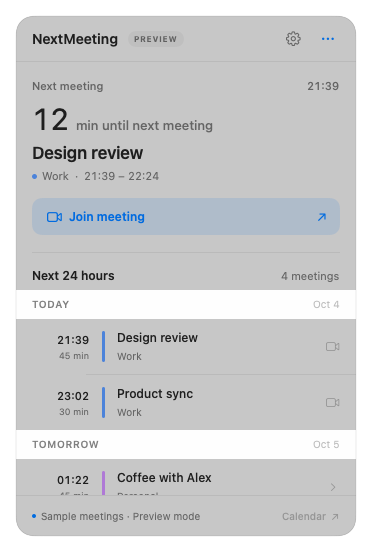
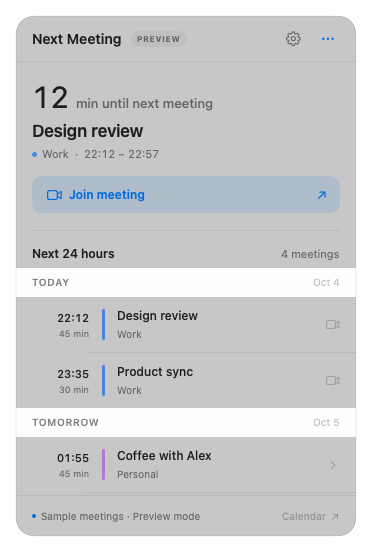
Rename app to Next Meeting and simplify agenda header

diff --git a/Sources/NextMeeting/MeetingPanel.swift b/Sources/NextMeeting/MeetingPanel.swift
@@ -69,7 +69,7 @@ struct MeetingPanel: View {
                     .buttonStyle(IconButtonStyle()).help("Back to meetings")
                     .accessibilityLabel("Back to meetings")
             }
-            Text(showingSettings ? "Settings" : selectedMeeting != nil ? "Meeting" : "NextMeeting")
+            Text(showingSettings ? "Settings" : selectedMeeting != nil ? "Meeting" : "Next Meeting")
                 .font(.system(size: 14, weight: .semibold))
             if store.isDemo {
                 Text("PREVIEW").font(.system(size: 8, weight: .bold)).tracking(0.7)
@@ -87,7 +87,7 @@ struct MeetingPanel: View {
                     .keyboardShortcut("r")
                 Button("Open Calendar", systemImage: "calendar") { openCalendarSelection() }
                 Divider()
-                Button("Quit NextMeeting") { NSApplication.shared.terminate(nil) }.keyboardShortcut("q")
+                Button("Quit Next Meeting") { NSApplication.shared.terminate(nil) }.keyboardShortcut("q")
             } label: { Image(systemName: "ellipsis").font(.system(size: 15, weight: .semibold)) }
                 .menuStyle(.borderlessButton).menuIndicator(.hidden).fixedSize()
                 .frame(width: 24, height: 26).help("More options").accessibilityLabel("More options")
@@ -164,20 +164,12 @@ struct MeetingPanel: View {
 
     private func featuredMeeting(_ meeting: Meeting, now: Date) -> some View {
         VStack(alignment: .leading, spacing: 0) {
-            HStack {
-                Text(meeting.startDate <= now ? "In progress" : "Next meeting")
-                    .font(.system(size: 11, weight: .medium))
-                Spacer()
-                Text(meeting.startDate.formatted(date: .omitted, time: .shortened))
-                    .font(.system(size: 11, weight: .medium)).monospacedDigit()
-            }.foregroundStyle(.secondary)
-
             HStack(alignment: .firstTextBaseline, spacing: 6) {
                 Text(countdownNumber(meeting, now: now))
                     .font(.system(size: 30, weight: .regular)).monospacedDigit()
                 Text(countdownUnit(meeting, now: now))
                     .font(.system(size: 13, weight: .medium)).foregroundStyle(.secondary)
-            }.padding(.top, 8).padding(.bottom, 7)
+            }.padding(.bottom, 7)
 
             Button { selectedMeeting = meeting } label: {
                 Text(meeting.title).font(.system(size: 17, weight: .semibold))
@@ -237,7 +229,7 @@ struct MeetingPanel: View {
                 .font(.system(size: 27, weight: .medium)).lineSpacing(2).padding(.bottom, 12)
             Text(store.access == .notDetermined
                  ? "See what’s next and the meetings ahead, right from your menu bar."
-                 : "NextMeeting needs permission to show events from your calendars.")
+                 : "Next Meeting needs permission to show events from your calendars.")
                 .font(.system(size: 13)).foregroundStyle(.secondary).lineSpacing(4)
             VStack(alignment: .leading, spacing: 12) {
                 Label("Uses the accounts in Apple Calendar", systemImage: "calendar")
@@ -260,7 +252,7 @@ struct MeetingPanel: View {
                 Text("macOS will ask for calendar access.")
                     .font(.system(size: 10)).foregroundStyle(.tertiary).padding(.top, 10)
             } else {
-                Text("Privacy & Security → Calendars → NextMeeting")
+                Text("Privacy & Security → Calendars → Next Meeting")
                     .font(.system(size: 10)).foregroundStyle(.secondary).padding(.top, 10)
             }
             if let error = store.errorMessage {
@@ -275,7 +267,7 @@ struct MeetingPanel: View {
             VStack(alignment: .leading, spacing: 22) {
                 VStack(alignment: .leading, spacing: 8) {
                     Text("Calendars").font(.system(size: 17, weight: .semibold))
-                    Text("Choose which calendars appear in NextMeeting.")
+                    Text("Choose which calendars appear in Next Meeting.")
                         .font(.system(size: 12)).foregroundStyle(.secondary).lineSpacing(3)
                 }
                 if store.access != .granted {
@@ -332,7 +324,7 @@ struct MeetingPanel: View {
                 }
                 VStack(alignment: .leading, spacing: 8) {
                     Label("Private by default", systemImage: "lock").font(.system(size: 11, weight: .medium))
-                    Text("NextMeeting reads your calendars on this Mac. It never changes events or sends them to a server.")
+                    Text("Next Meeting reads your calendars on this Mac. It never changes events or sends them to a server.")
                         .font(.system(size: 11)).foregroundStyle(.secondary).lineSpacing(3)
                     Text("All-day events and declined invitations are hidden.")
                         .font(.system(size: 11)).foregroundStyle(.secondary).lineSpacing(3)

diff --git a/Sources/NextMeeting/NextMeetingApp.swift b/Sources/NextMeeting/NextMeetingApp.swift
@@ -24,7 +24,7 @@ enum NextMeetingApp {
     private static func verifyCalendars() {
         guard var report = UserDefaults.standard.dictionary(forKey: "NextMeeting.connectionSummary"),
               let verifiedAt = report["verifiedAt"] as? TimeInterval else {
-            print("{\"status\":\"not_verified\",\"message\":\"Open NextMeeting from its app bundle first.\"}")
+            print("{\"status\":\"not_verified\",\"message\":\"Open Next Meeting from its app bundle first.\"}")
             exit(1)
         }
         let fresh = Date().timeIntervalSince1970 - verifiedAt < 180
@@ -69,7 +69,7 @@ final class AppDelegate: NSObject, NSApplicationDelegate, NSPopoverDelegate {
 
         statusItem = NSStatusBar.system.statusItem(withLength: NSStatusItem.variableLength)
         if let button = statusItem.button {
-            button.image = NSImage(systemSymbolName: "calendar.badge.clock", accessibilityDescription: "NextMeeting")
+            button.image = NSImage(systemSymbolName: "calendar.badge.clock", accessibilityDescription: "Next Meeting")
             button.image?.size = NSSize(width: 18, height: 18)
             button.image?.isTemplate = true
             button.imagePosition = .imageLeading
@@ -96,7 +96,7 @@ final class AppDelegate: NSObject, NSApplicationDelegate, NSPopoverDelegate {
                                                       height: isPopoverPreview ? 120 : 520),
                                   styleMask: isPopoverPreview ? [.titled, .closable] : [.titled, .closable, .fullSizeContentView],
                                   backing: .buffered, defer: false)
-            window.title = isPreview ? "NextMeeting Preview" : "NextMeeting"
+            window.title = isPreview ? "Next Meeting Preview" : "Next Meeting"
             if isPopoverPreview {
                 let label = NSTextField(labelWithString: "Sample meetings · Native popover")
                 let button = NSButton(title: "Open sample popover", target: self, action: #selector(showPreviewPopover))
@@ -146,10 +146,10 @@ final class AppDelegate: NSObject, NSApplicationDelegate, NSPopoverDelegate {
     @objc private func togglePopover(_ sender: NSStatusBarButton) {
         if NSApp.currentEvent?.type == .rightMouseUp {
             let menu = NSMenu()
-            menu.addItem(withTitle: "Open NextMeeting", action: #selector(openPanel), keyEquivalent: "")
+            menu.addItem(withTitle: "Open Next Meeting", action: #selector(openPanel), keyEquivalent: "")
             menu.addItem(withTitle: "Refresh Calendars", action: #selector(refreshCalendars), keyEquivalent: "r")
             menu.addItem(.separator())
-            menu.addItem(withTitle: "Quit NextMeeting", action: #selector(quit), keyEquivalent: "q")
+            menu.addItem(withTitle: "Quit Next Meeting", action: #selector(quit), keyEquivalent: "q")
             for item in menu.items { item.target = self }
             statusItem.menu = menu
             statusItem.button?.performClick(nil)
@@ -196,8 +196,8 @@ final class AppDelegate: NSObject, NSApplicationDelegate, NSPopoverDelegate {
         guard let button = statusItem?.button, let store else { return }
         let now = Date()
         if store.access != .granted {
-            button.title = " NextMeeting"
-            button.toolTip = "Connect your calendars to NextMeeting"
+            button.title = " Next Meeting"
+            button.toolTip = "Connect your calendars to Next Meeting"
         } else if let meeting = MeetingLogic.nextMeeting(store.meetings, now: now) {
             let status = MeetingLogic.statusText(for: meeting, now: now)
             let title = meeting.title.count > 22 ? String(meeting.title.prefix(21)) + "…" : meeting.title
@@ -208,6 +208,6 @@ final class AppDelegate: NSObject, NSApplicationDelegate, NSPopoverDelegate {
             button.toolTip = "No meetings in the next 24 hours"
         }
         if store.isDemo { button.title = " Preview ·" + button.title }
-        button.setAccessibilityLabel("NextMeeting, \(button.title.trimmingCharacters(in: .whitespaces))")
+        button.setAccessibilityLabel("Next Meeting, \(button.title.trimmingCharacters(in: .whitespaces))")
     }
 }

diff --git a/Sources/NextMeeting/AppPreferences.swift b/Sources/NextMeeting/AppPreferences.swift
@@ -70,7 +70,7 @@ final class AppPreferences: ObservableObject {
             else { try SMAppService.mainApp.unregister() }
             updateLoginStatus()
             loginError = SMAppService.mainApp.status == .requiresApproval
-                ? "Allow NextMeeting in System Settings → General → Login Items." : nil
+                ? "Allow Next Meeting in System Settings → General → Login Items." : nil
         } catch {
             updateLoginStatus()
             loginError = "macOS couldn’t update login items. Open System Settings → General → Login Items."

diff --git a/README.md b/README.md
@@ -1,6 +1,6 @@
-# NextMeeting
+# Next Meeting
 
-NextMeeting shows your next meeting in the macOS menu bar. Click it to see meetings in the next 24 hours, choose calendars, or open a meeting link.
+Next Meeting shows your next meeting in the macOS menu bar. Click it to see meetings in the next 24 hours, choose calendars, or open a meeting link.
 
 The panel follows the macOS Weather and Display menu bar panels: a flat surface, consistent system typography, thin dividers, and a compact layout.
 
@@ -8,16 +8,16 @@ The native macOS popover draws the panel background and arrow as one surface. Th
 
 ## Start the app
 
-1. Download the app ZIP from the [latest release](https://github.com/mikeylong/NextMeeting/releases/latest), unzip it, and move NextMeeting to Applications.
-2. Open NextMeeting.
+1. Download the app ZIP from the [latest release](https://github.com/mikeylong/NextMeeting/releases/latest), unzip it, and move Next Meeting to Applications.
+2. Open Next Meeting.
 3. Click **Connect calendars** and allow calendar access in the macOS prompt.
-4. Open **Settings** in NextMeeting and choose the calendars you want to see.
+4. Open **Settings** in Next Meeting and choose the calendars you want to see.
 
-The release supports Apple silicon Macs running macOS 14 or later. To run a local build, open `build/NextMeeting.app` after using the build commands below.
+The release supports Apple silicon Macs running macOS 14 or later. To run a local build, open `build/Next Meeting.app` after using the build commands below.
 
-NextMeeting uses calendars already connected to Apple Calendar. iCloud, Google, Exchange, and other accounts work when their events appear in Apple Calendar. To add an account, use **Manage calendar accounts** in NextMeeting’s settings and enable Calendars for the account.
+Next Meeting uses calendars already connected to Apple Calendar. iCloud, Google, Exchange, and other accounts work when their events appear in Apple Calendar. To add an account, use **Manage calendar accounts** in Next Meeting’s settings and enable Calendars for the account.
 
-If you previously denied access, go to **System Settings → Privacy & Security → Calendars** and enable NextMeeting.
+If you previously denied access, go to **System Settings → Privacy & Security → Calendars** and enable Next Meeting.
 
 ## What it shows
 
@@ -25,12 +25,12 @@ If you previously denied access, go to **System Settings → Privacy & Security 
 2. The panel shows the next meeting, followed by timed events over a rolling 24 hours. Meetings already in progress are included. Ended events, all-day events, canceled meetings, and declined invitations are hidden.
 3. Click any row to see meeting details and attendees. Response labels show Accepted, Declined, No reply, Tentative, or the status supplied by the calendar. Organizer, your own entry, and optional attendees are marked. Unknown stays Unknown when the calendar does not supply a response.
 4. **Join meeting** opens recognized Zoom, Google Meet, Microsoft Teams, or Webex links in your default browser or meeting app. **Open Calendar** selects the meeting and opens its details in Apple Calendar, including the correct occurrence of a recurring meeting. The footer and More menu open the selected meeting, or the next meeting from the agenda.
-5. Calendar changes update automatically. NextMeeting also refreshes every minute and when the Mac wakes. **Refresh Calendars** rereads Apple Calendar’s current data; Apple Calendar handles account sync.
+5. Calendar changes update automatically. Next Meeting also refreshes every minute and when the Mac wakes. **Refresh Calendars** rereads Apple Calendar’s current data; Apple Calendar handles account sync.
 6. **Open at login** is optional and off by default. The **More options** menu includes Quit. Right-click the menu bar item for quick actions.
 
 Calendar selections persist. New calendars appear automatically and can be turned off individually. Times follow the Mac’s time zone, locale, and 12/24-hour preference.
 
-NextMeeting reads events locally, never edits them, and has no account, analytics, or server. macOS requires EventKit’s full calendar-access permission to read event details; the app does not use its write capability.
+Next Meeting reads events locally, never edits them, and has no account, analytics, or server. macOS requires EventKit’s full calendar-access permission to read event details; the app does not use its write capability.
 
 ## Build and verify
 
@@ -45,22 +45,22 @@ cd /Users/mike/NextMeeting
 After launching the app and connecting calendars, check its local connection summary:
 
 ```sh
-build/NextMeeting.app/Contents/MacOS/NextMeeting --verify-calendars
+"build/Next Meeting.app/Contents/MacOS/NextMeeting" --verify-calendars
 ```
 
 The summary contains permission status, counts, and the last verification time. It reads the app’s saved summary because macOS attributes calendar access differently to an app launched from the menu bar and a command launched from a terminal. Exit code 0 means the app refreshed successfully within the last three minutes. No event details are printed.
 
-The build produces `build/NextMeeting.app` with a local ad hoc signature and calendar sandbox entitlement. A distributable release would need Developer ID signing and notarization.
+The build produces `build/Next Meeting.app` with a local ad hoc signature and calendar sandbox entitlement. A distributable release would need Developer ID signing and notarization.
 
 `scripts/test.sh` checks meeting ordering, rolling-window boundaries, ongoing events, recurrence identities, calendar selection, countdowns, conference URL extraction, attendee status mapping and identity handling, and Calendar event links without reading personal calendars.
 
 For UI review with isolated sample calendars:
 
 ```sh
-build/NextMeeting.app/Contents/MacOS/NextMeeting --preview
-build/NextMeeting.app/Contents/MacOS/NextMeeting --preview --preview-empty
-build/NextMeeting.app/Contents/MacOS/NextMeeting --preview --preview-denied
-build/NextMeeting.app/Contents/MacOS/NextMeeting --preview --light
+"build/Next Meeting.app/Contents/MacOS/NextMeeting" --preview
+"build/Next Meeting.app/Contents/MacOS/NextMeeting" --preview --preview-empty
+"build/Next Meeting.app/Contents/MacOS/NextMeeting" --preview --preview-denied
+"build/Next Meeting.app/Contents/MacOS/NextMeeting" --preview --light
 ```
 
 Preview mode is labeled and never reads real events or opens sample meeting links. The normal app starts without preview mode.

diff --git a/RELEASE-NOTES.md b/RELEASE-NOTES.md
@@ -1,15 +1,9 @@
-# NextMeeting 1.0.0
+# Next Meeting 1.0.1
 
-NextMeeting shows your next meeting and a countdown in the macOS menu bar. Click it to see your meetings for the next 24 hours.
+The app is now named **Next Meeting**. The agenda opens with the countdown, followed by the meeting title and details. The smaller “Next meeting” label and its adjacent start time have been removed.
 
-1. Choose from the calendars already connected to Apple Calendar.
-2. See meeting details, attendees, and invitation responses.
-3. Join Zoom, Google Meet, Microsoft Teams, and Webex meetings.
-4. Open the selected event in Apple Calendar, including the correct recurring occurrence.
-5. Turn on Open at login if you want NextMeeting available when your Mac starts.
+Calendar selections and calendar access carry over from the previous version.
 
-Requires an Apple silicon Mac running macOS 14 or later. NextMeeting requests calendar access, reads events locally, and never changes them or sends them to a server.
+Requires an Apple silicon Mac running macOS 14 or later. The download includes the app and a SHA-256 checksum.
 
-The download includes the app and a SHA-256 checksum. No personal calendar data or saved settings are included.
-
-NextMeeting is signed with Developer ID and is not notarized. macOS may block it after download. [Apple’s opening instructions](https://support.apple.com/en-us/102445) explain the approval available in Privacy & Security.
+Next Meeting is signed with Developer ID and is not notarized. macOS may block it after download. [Apple’s opening instructions](https://support.apple.com/en-us/102445) explain the approval available in Privacy & Security.
